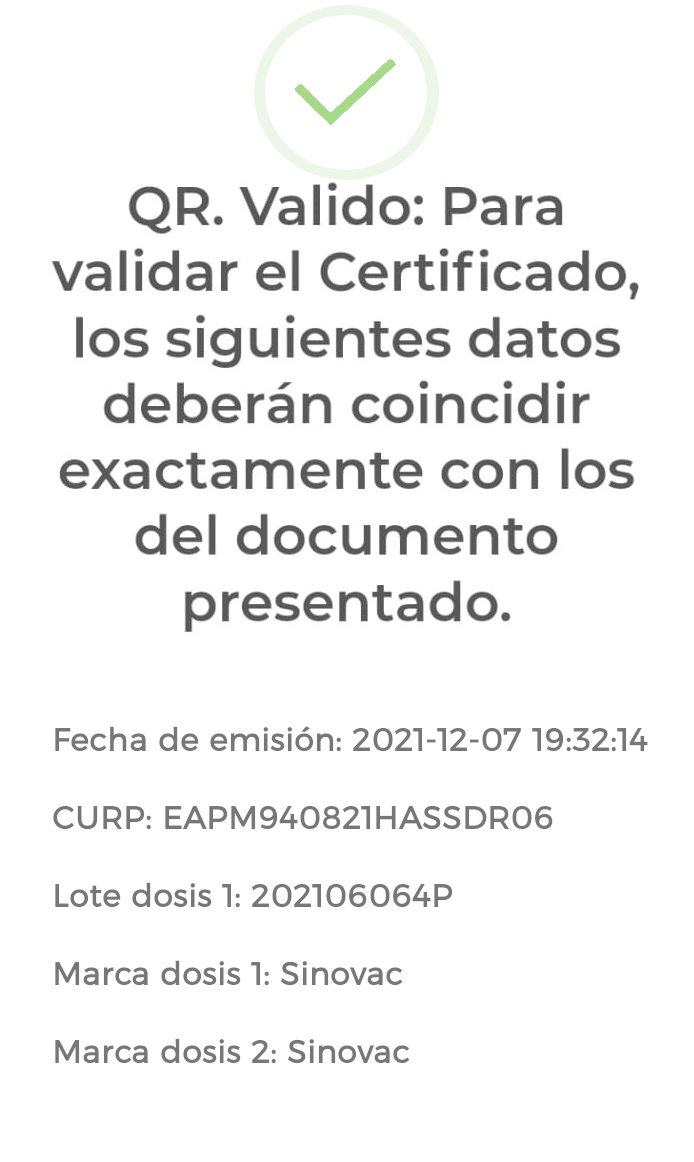
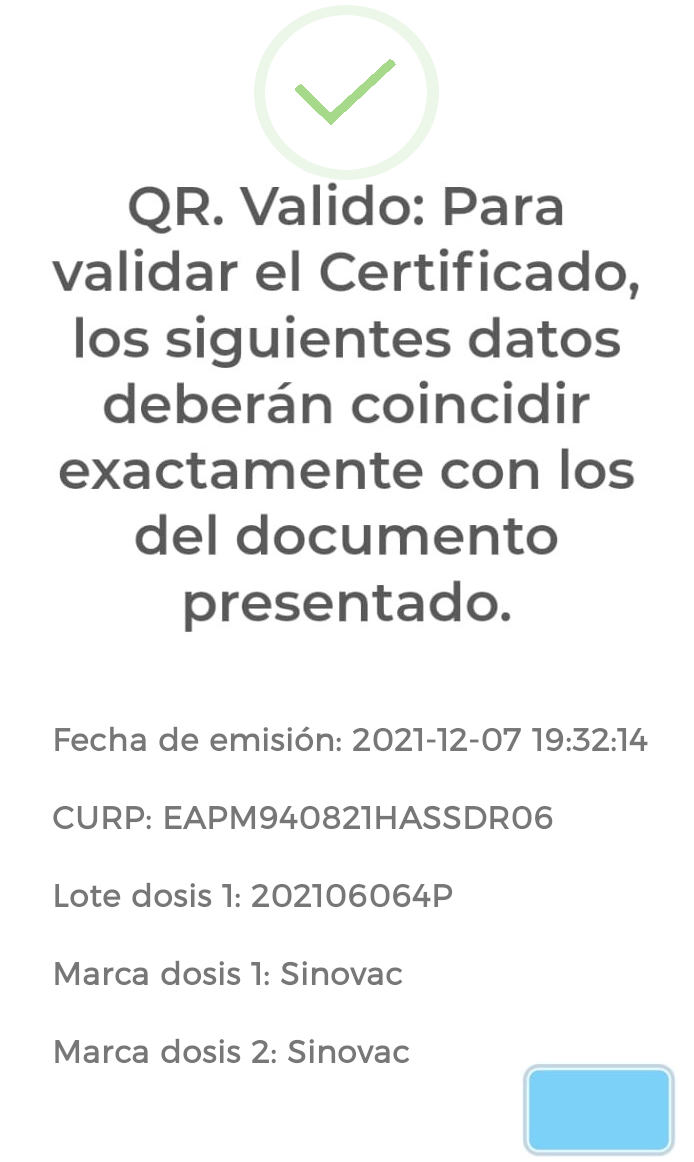
Add files via upload

Changed region(s): [[0.7565, 0.8985, 0.9986, 1.0]]

diff --git a/EAPM940821HASSDR06.html b/EAPM940821HASSDR06.html
@@ -10,16 +10,7 @@
 <center>
   <img src="assets/images/EAPM940821HASSDR06.png">
   </center>
-.button {
-    background-color: #7cd1f8
-    border: none;
-    color: white;
-    padding: 15px 32px;
-    text-align: center;
-    text-decoration: none;
-    display: inline-block;
-    font-size: 16px;
-}
+<p class="links"><a href="https://www.gob.mx/" target="_blank"> Ir a Alumnos ISC TUA</a>
   
 </body>
 </html>
